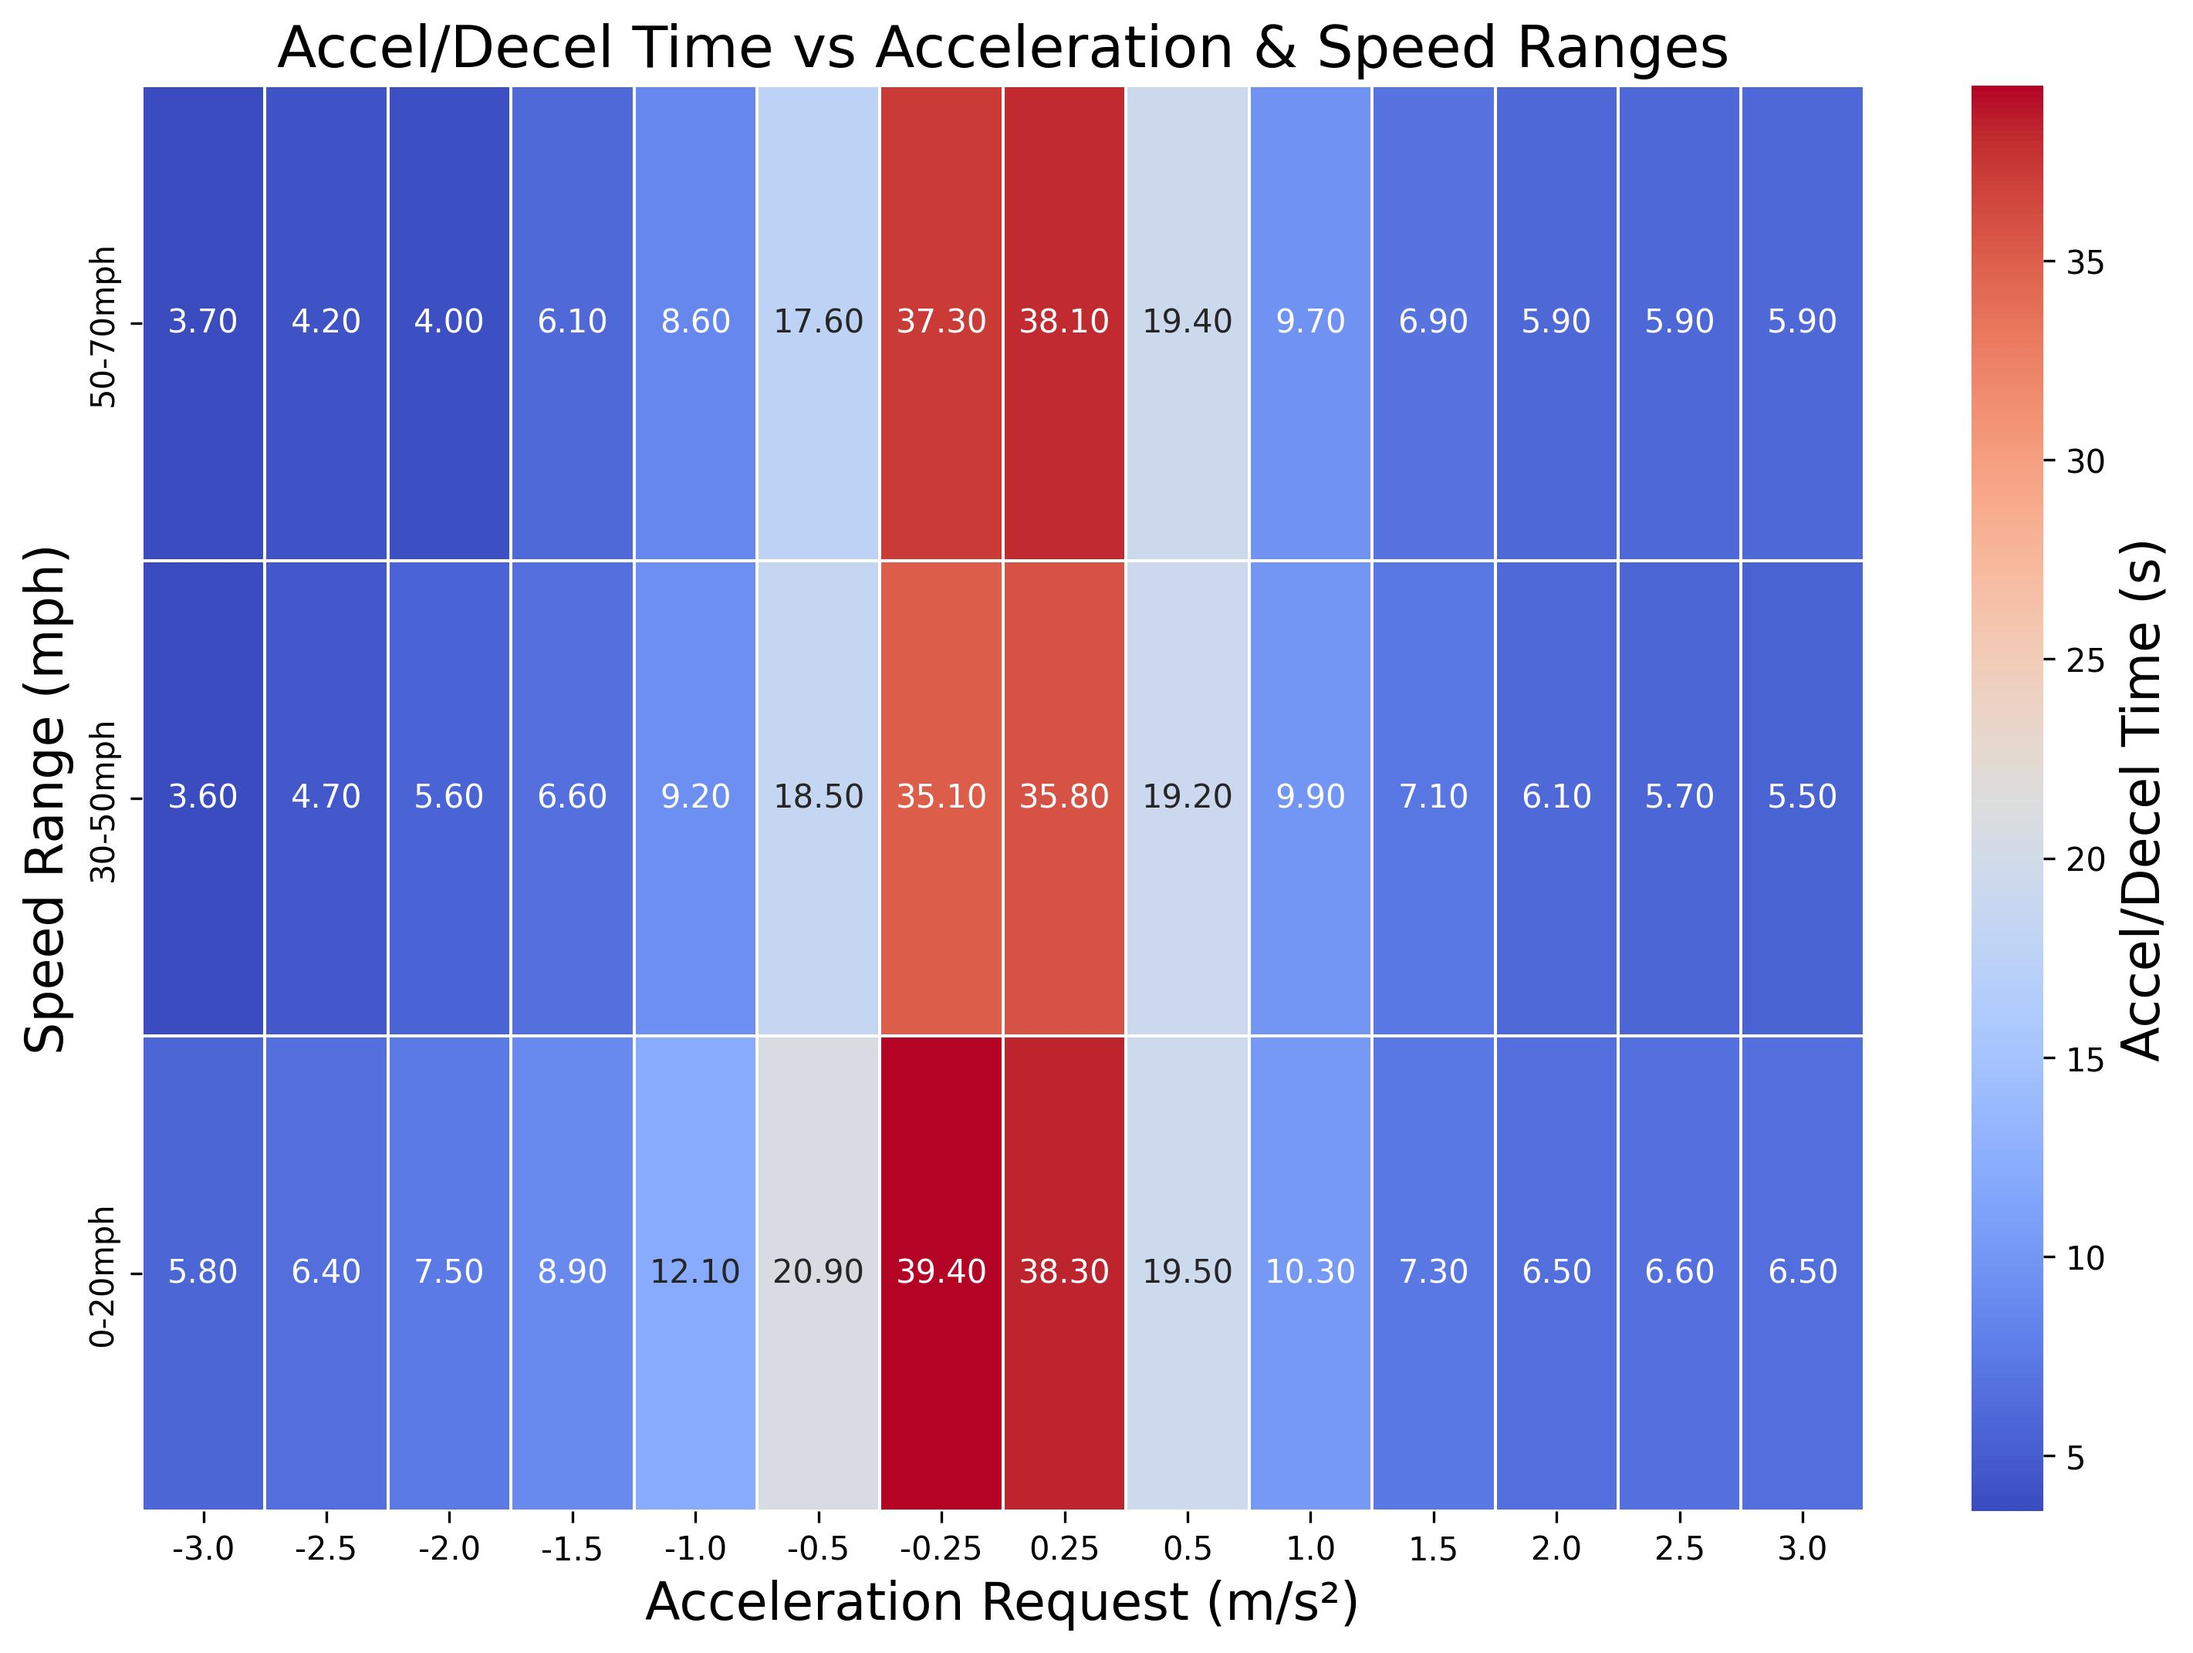
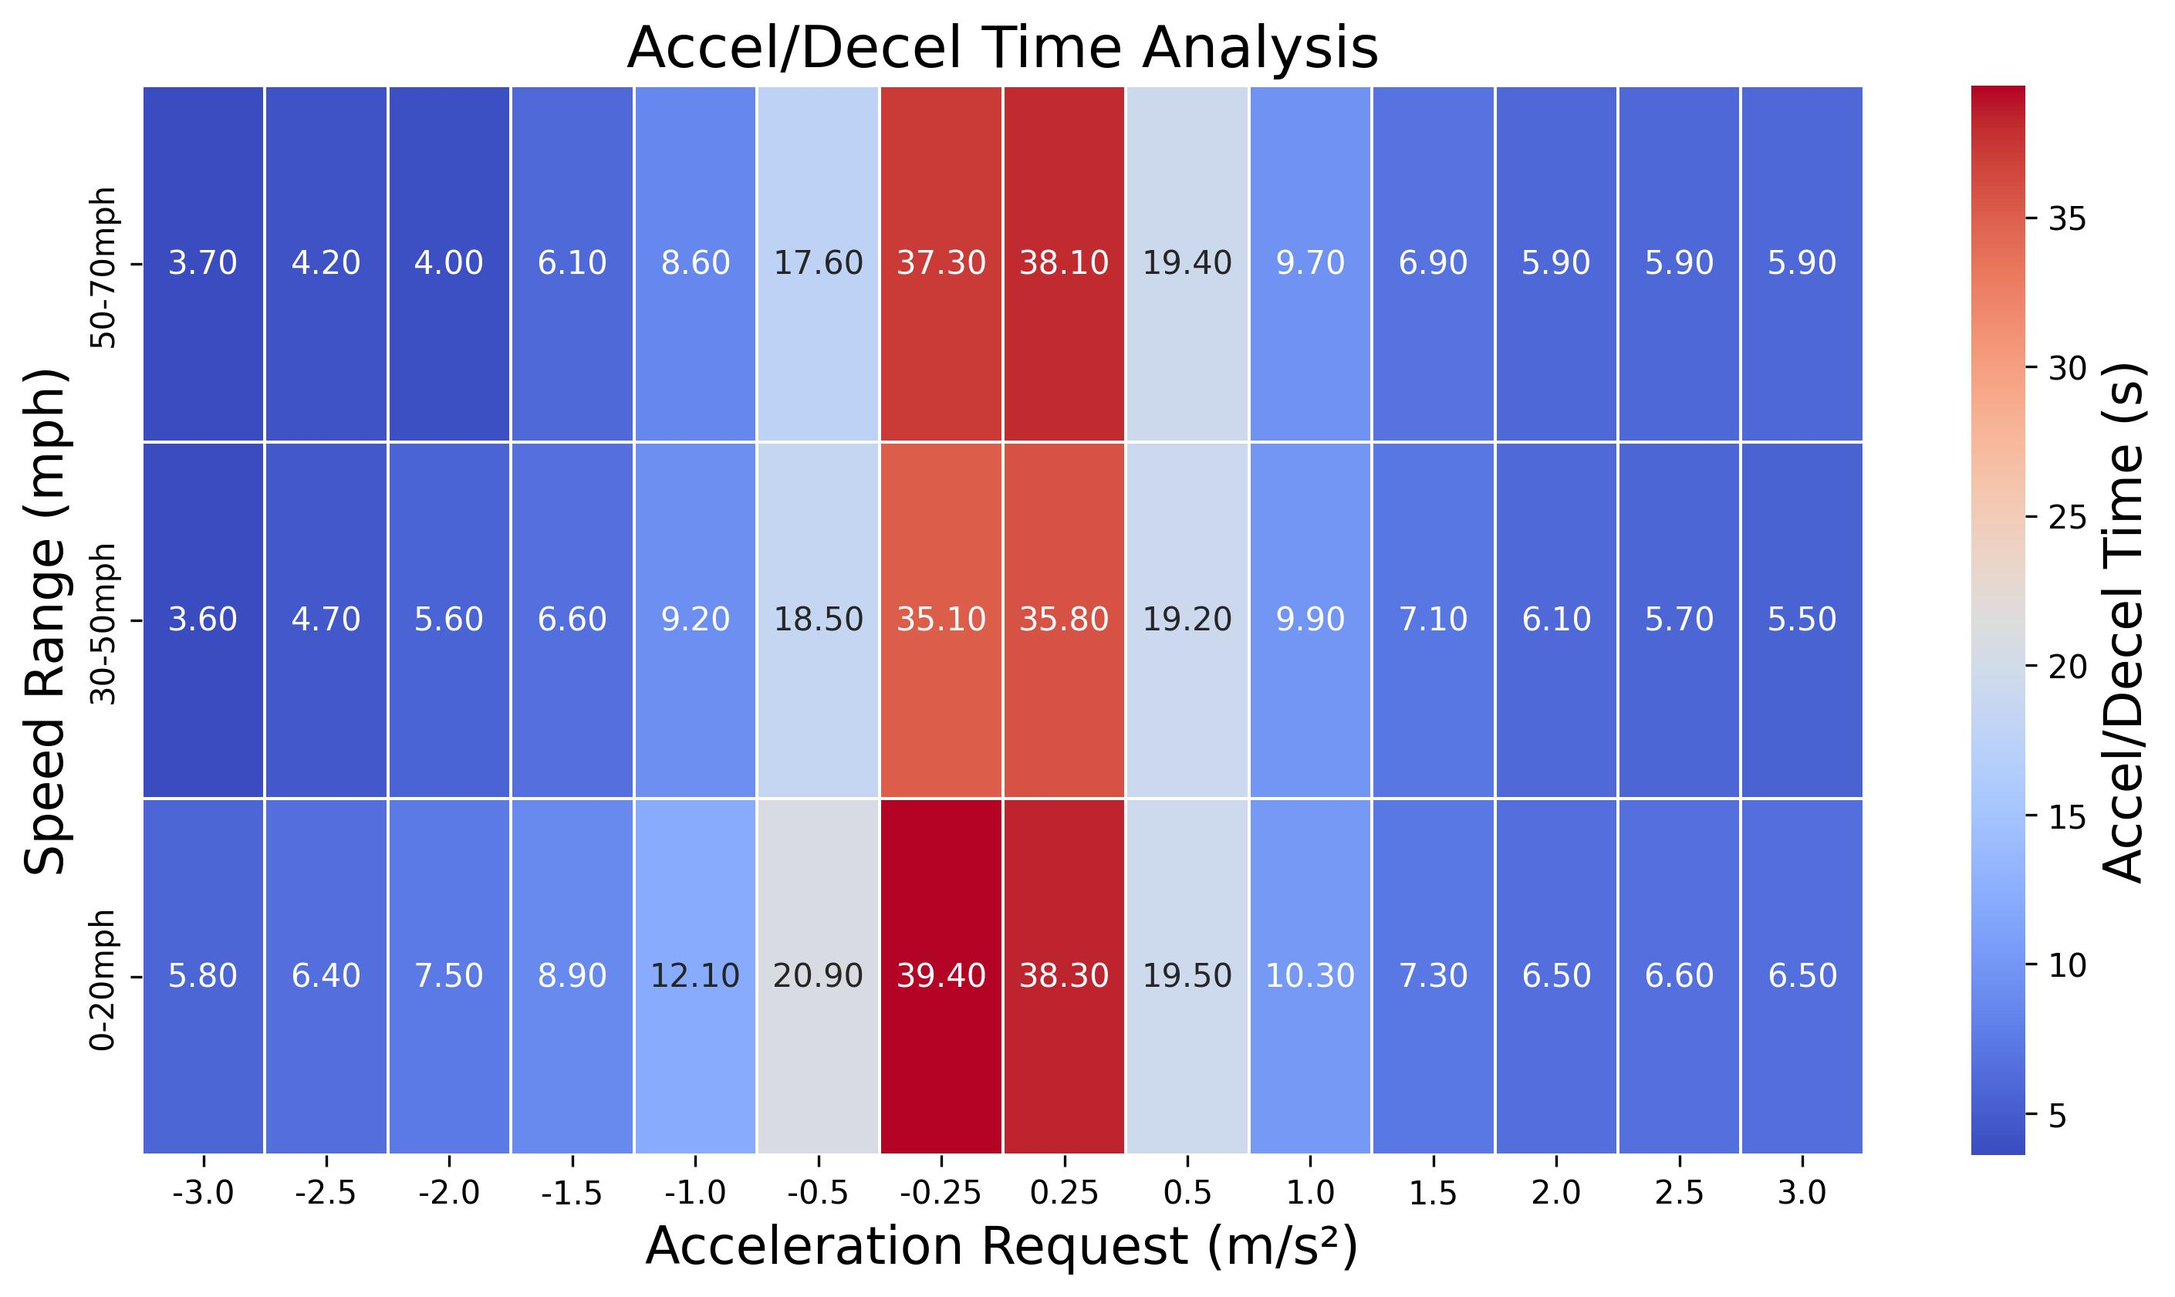
conducted response time analysis

Changed region(s): [[0.0, 0.0, 0.9677, 0.9899], [0.9365, 0.2784, 0.9989, 0.6805], [0.0937, 0.3093, 0.1249, 0.3712]]

diff --git a/src/tools/xil-data-analysis/2023-Hyundai-Ioniq5/PlotManager.py b/src/tools/xil-data-analysis/2023-Hyundai-Ioniq5/PlotManager.py
@@ -238,9 +238,9 @@ class PlotManager:
         heatmap_pivot_reponse_time = heatmap_df.pivot_table(values='Response Time (s)', index='Speed Range', columns='Acceleration (m/s²)').iloc[::-1]
 
         # Plot heatmap
-        plt.figure(figsize=(12, 8))
+        plt.figure(figsize=(12, 6))
         ax = sns.heatmap(heatmap_pivot_reponse_time, annot=True, cmap="coolwarm", linewidths=0.5, fmt=".2f")
-        if self.title_status: plt.title("Response Time vs Acceleration & Speed Ranges", fontdict={'fontsize': 18})
+        if self.title_status: plt.title("Response Time Analysis", fontdict={'fontsize': 18})
         plt.xlabel("Acceleration Request (m/s²)", fontdict={'fontsize': 16})
         plt.ylabel("Speed Range (mph)", fontdict={'fontsize': 16})
         cbar = ax.collections[0].colorbar
@@ -283,9 +283,9 @@ class PlotManager:
 
         
         # Plot heatmap
-        plt.figure(figsize=(12, 8))
+        plt.figure(figsize=(12, 6))
         ax = sns.heatmap(heatmap_pivot_accel_decel, annot=True, cmap="coolwarm", linewidths=0.5, fmt=".2f")
-        if self.title_status: plt.title("Accel/Decel Time vs Acceleration & Speed Ranges", fontdict={'fontsize': 18})
+        if self.title_status: plt.title("Accel/Decel Time Analysis", fontdict={'fontsize': 18})
         plt.xlabel("Acceleration Request (m/s²)", fontdict={'fontsize': 16})
         plt.ylabel("Speed Range (mph)", fontdict={'fontsize': 16})
         cbar = ax.collections[0].colorbar
@@ -449,7 +449,7 @@ class PlotManager:
         zi = scipy.interpolate.griddata((x, y), z, (xi, yi), method='cubic')
 
         # Create the contour plot
-        plt.figure(figsize=(12, 8))
+        plt.figure(figsize=(12, 6))
         contour = plt.contourf(xi, yi, zi, cmap="coolwarm", levels=20)
         cbar = plt.colorbar(contour)
         cbar.set_label("Response Time (s)", fontsize=14)
